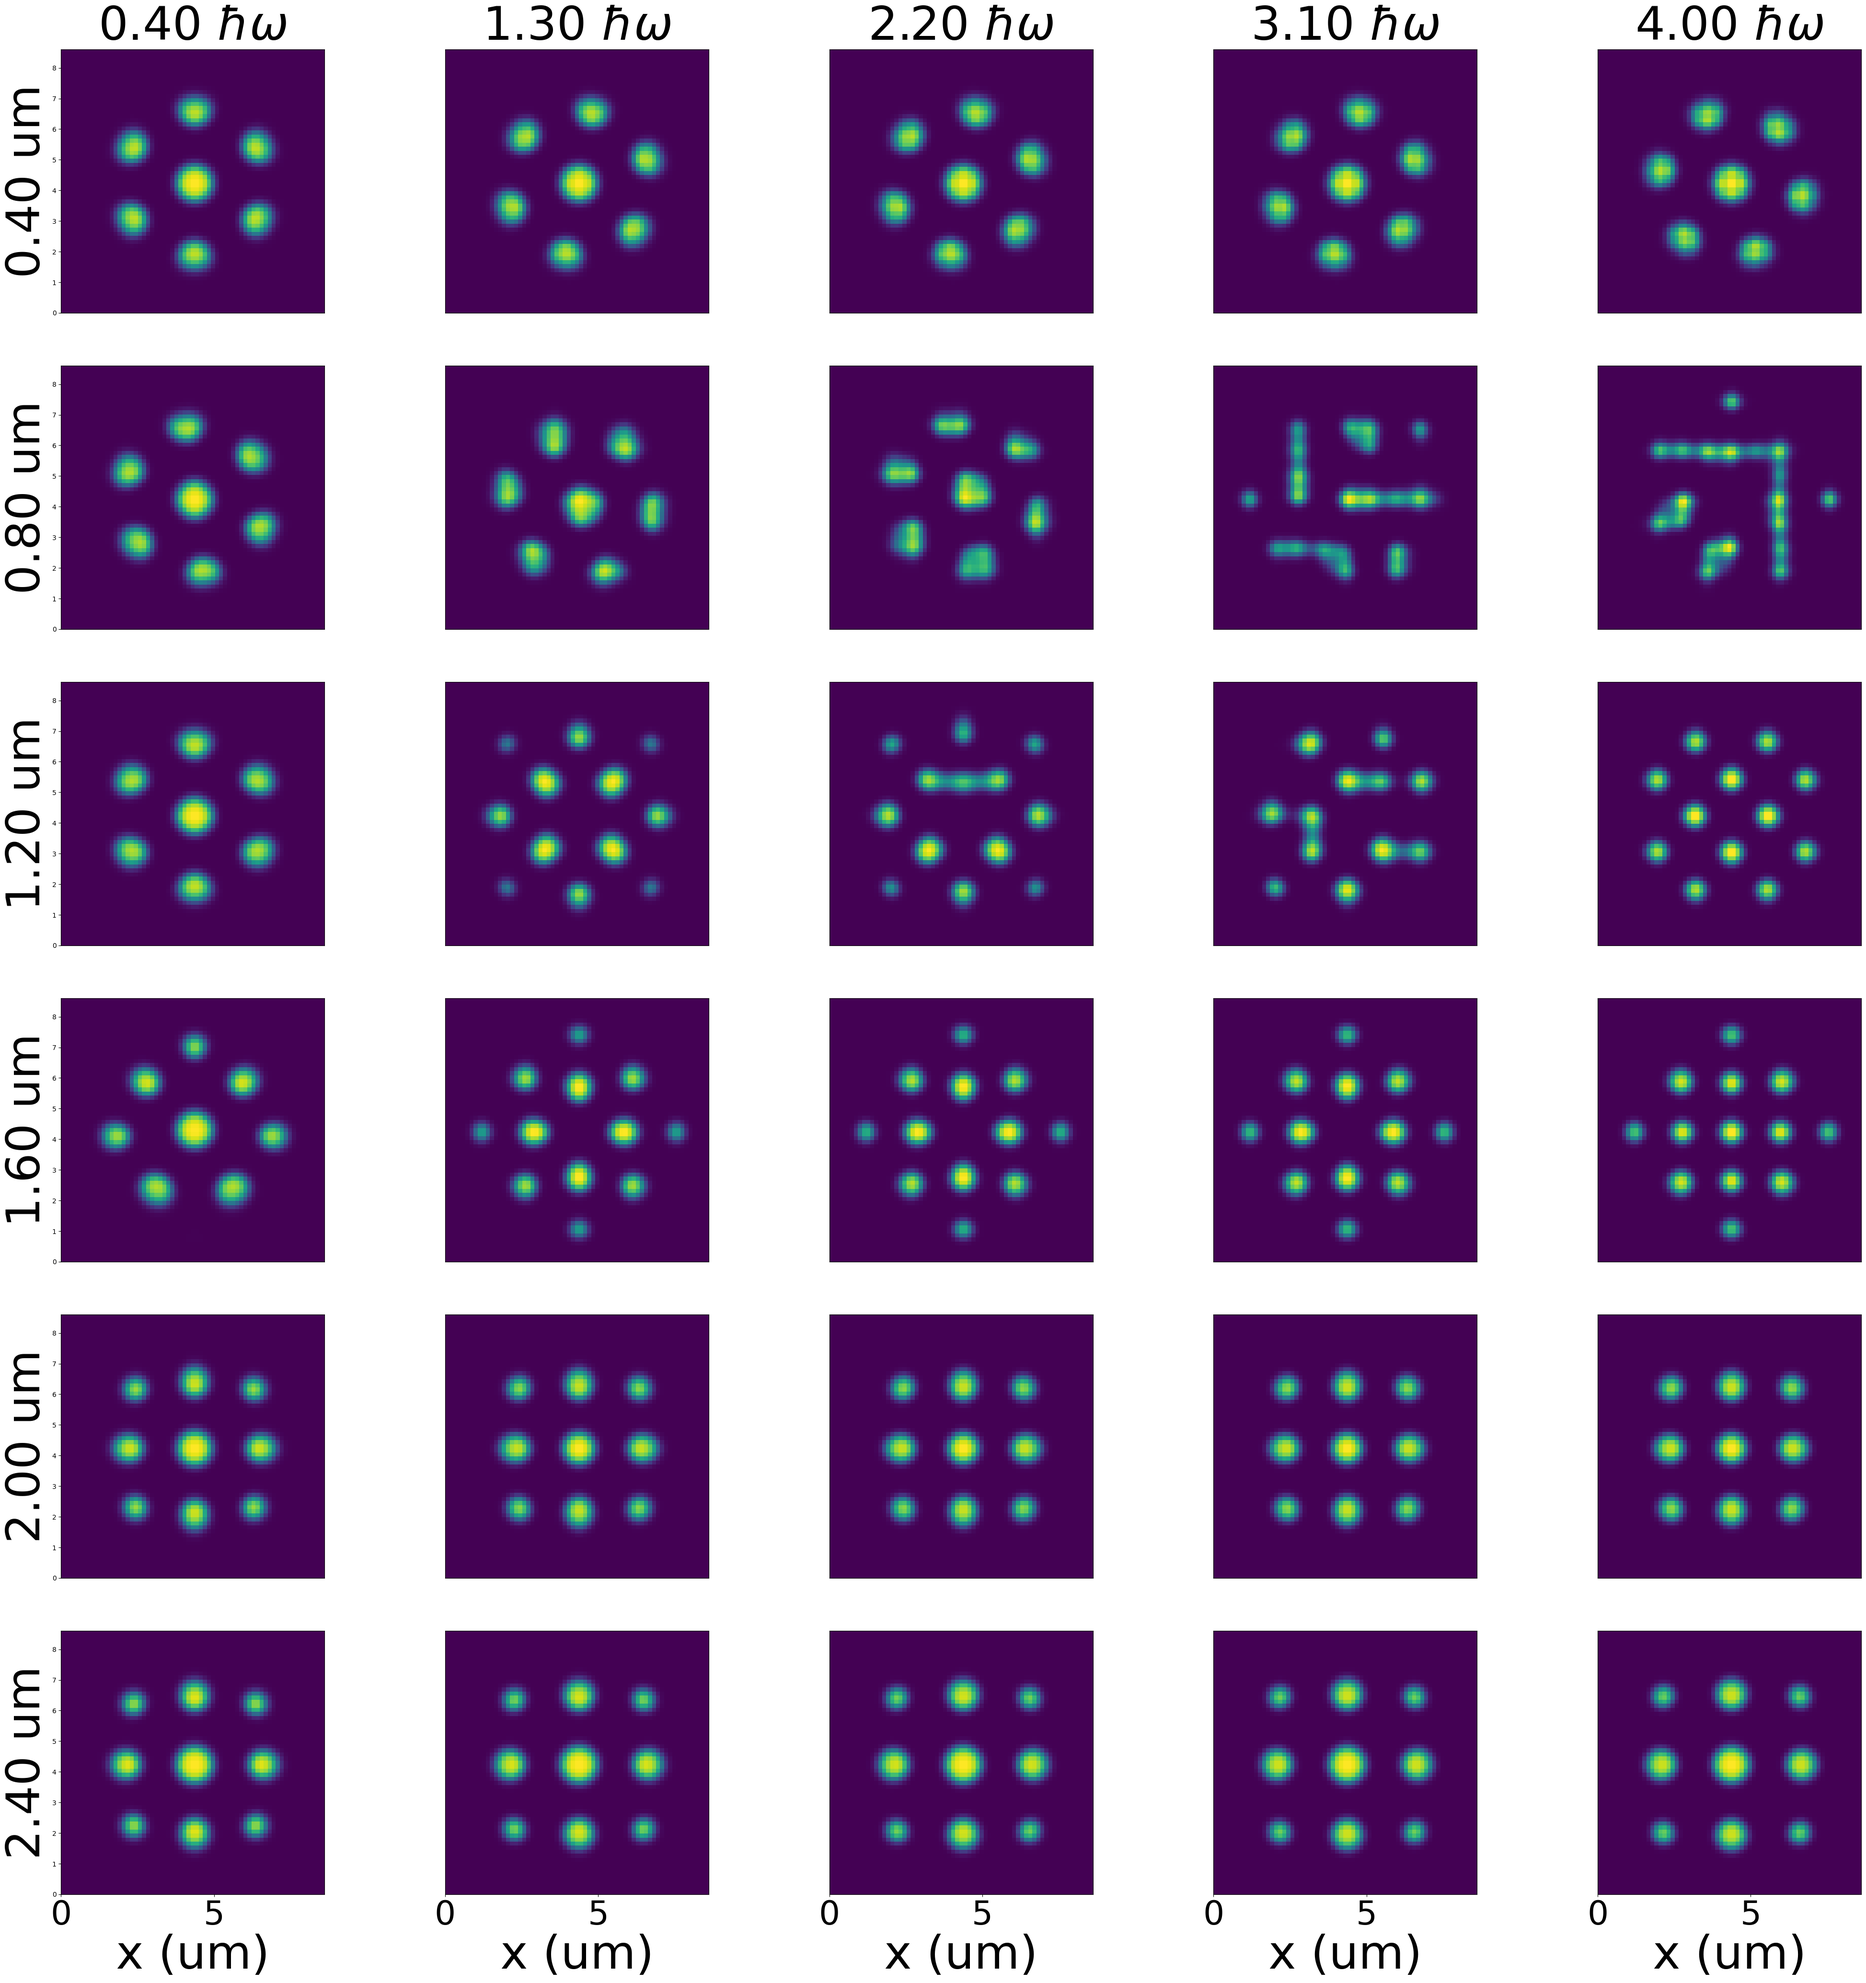
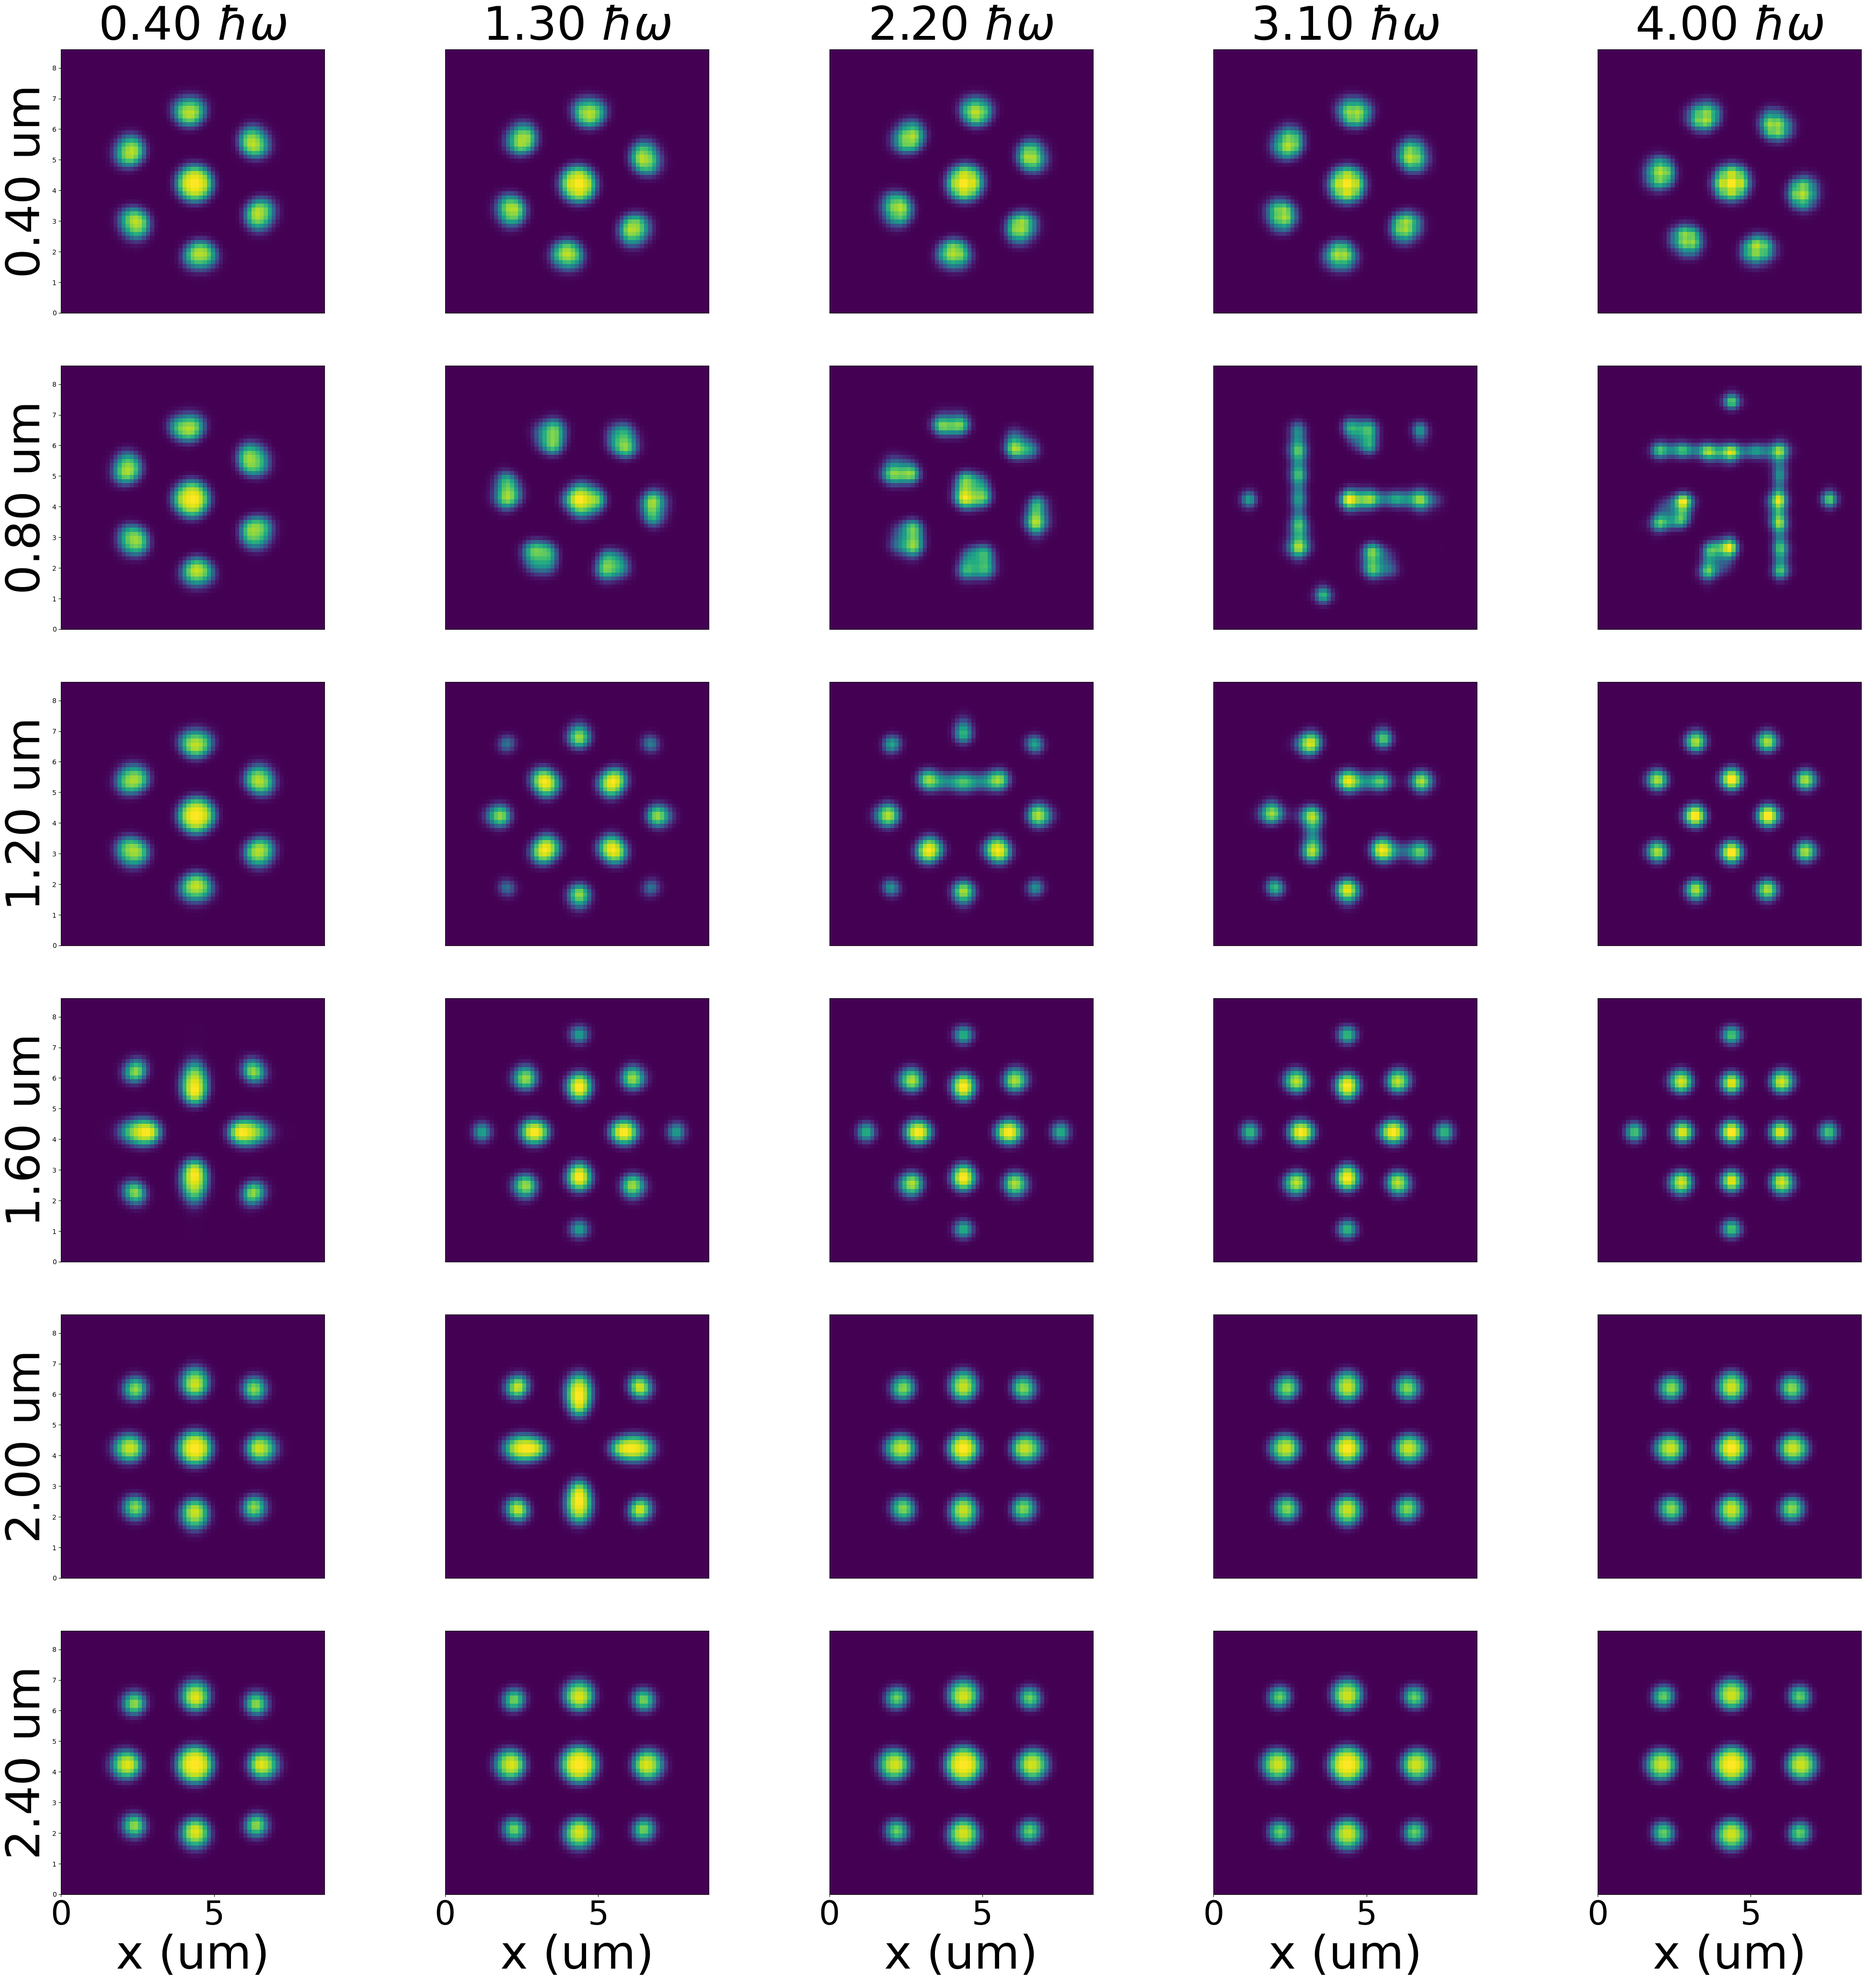
fix minor defects

diff --git a/run.py b/run.py
@@ -11,30 +11,65 @@ from perlin_noise import perlin_noise
 from visualize import plot_table
 
 
+def scan(dbec, aho):
+    sigmas = np.array([2, 2, 2]) / np.sqrt(2)
+
+    num_spacings = 6
+    num_depths = 5
+    lattice_spacings = np.linspace(0.4, 2.4, num_spacings) * 1e-6 / aho  # convert [1e-6 m] -> [aho]
+    lattice_depths = np.linspace(0.4, 4.0, num_depths)  # [hbar omega]
+    nx = dbec.grid.nx
+    nz = dbec.grid.nz
+
+    wavefunctions = np.empty((num_spacings, num_depths) + (nx, nx, nz))
+    energies = np.empty((num_spacings, num_depths))
+    for lattice_type in ["square", "triangular"]:
+        for i, lat_spacing in enumerate(lattice_spacings):
+            for j, lat_depth in enumerate(lattice_depths):
+                logging.info(
+                    f"{lattice_type} [{i},{j}]: depth {lat_depth:1.2f} "
+                    f"spacings {lat_spacing:1.2f}",
+                )
+                if lat_depth == 0 and j > 0:
+                    wavefunctions[i, j, :, :, :] = wavefunctions[0, 0, :, :, :]
+                else:
+                    dbec.potential.lattice_depth = lat_depth
+                    dbec.potential.lattice_constant = lat_spacing
+                    dbec.potential.lattice_type = lattice_type
+                    noise = perlin_noise(
+                        nx, nx, nz, scale=8
+                    )  # make sure nx,nz are divisable by scale
+                    psi1 = dipolar.gaussian_psi(dbec.grid, sigmas) * (1 + 0.2 * noise)
+                    energy, psi_opt = dbec.optimize(psi1)
+                    # plot_contour(grid.x1, grid.y1, abs(psi_opt[:, :, mid]))
+                    energies[i, j] = energy
+                    wavefunctions[i, j, :, :, :] = psi_opt
+        results = {"wavefunctions": wavefunctions, "energies": energies}
+        pickle.dump(results, open("results/results.pkl", "wb"))
+        plot_table(wavefunctions, lattice_spacings, lattice_depths, aho, lattice_type, limx)
+
+
 def main():
+    torch.manual_seed(1)
     logging.basicConfig(
         level=logging.INFO,
         format="%(asctime)s [%(levelname)s] %(message)s",
         handlers=[logging.FileHandler("logs/log.log"), logging.StreamHandler()],
         datefmt="%Y-%m-%d %H:%M:%S",
     )
-
     os.makedirs("figs", exist_ok=True)
     os.makedirs("results", exist_ok=True)
     os.makedirs("logs", exist_ok=True)
-
     mass = 162 * constants.dalton  # 162Dy mass in kg
     omega_x = 2 * np.pi * 125  # Trap radial frequency, in rad/s
     aho = np.sqrt(constants.hbar / mass / omega_x)  # oscillator length in meters
     omegas = np.array([1, 1, 2])  # trap frequencies in units of omega_x
-
     num_atoms = 100 * 1e3  # Number of atoms
-    scattering_length = 85 * constants.a0
-    dipole_length = 131 * constants.a0
-
+    scattering_length = 5 * constants.a0  # 85
+    dipole_length = 0  # 131 * constants.a0
     lattice_constant = 1  # in units of aho
     lattice_depth = 0  # in units of hbar*omegar_r
-    lattice_type = "square"
+    lattice_type = None
     potential = dipolar.Potential(
         omegas,
         lattice_constant,
@@ -61,7 +96,9 @@ def main():
     # gpotential = potential_func.lattice(grid.x, grid.y)
     # plot_contour(grid.x1, grid.y1, gpotential)
 
-    precision = "float64"  # change that to get x5 speed on newer nvidia GPUs,
+    precision = "float32"
+    # "float64"for full precision
+    # "float32" to get x5 speed on newer nvidia GPUs,
     # at slight cost of precision (relative energy error ~1e-6)
 
     dbec = dipolar.DBEC(
@@ -73,38 +110,12 @@ def main():
         Bcutoff,
         precision=precision,
     )
+    # scan(dbec, aho)
     sigmas = np.array([2, 2, 2]) / np.sqrt(2)
-    torch.manual_seed(1)
-    num_spacings = 6
-    num_depths = 5
-    lattice_spacings = np.linspace(0.4, 2.4, num_spacings) * 1e-6 / aho  # convert [1e-6 m] -> [aho]
-    lattice_depths = np.linspace(0.4, 4.0, num_depths)  # [hbar omega]
-    wavefunctions = np.empty((num_spacings, num_depths) + (nx, nx, nz))
-    energies = np.empty((num_spacings, num_depths))
-    for lattice_type in ["square", "triangular"]:
-        for i, lat_spacing in enumerate(lattice_spacings):
-            for j, lat_depth in enumerate(lattice_depths):
-                logging.info(
-                    f"{lattice_type} [{i},{j}]: depth {lat_depth:1.2f} "
-                    f"spacings {lat_spacing:1.2f}",
-                )
-                if lat_depth == 0 and j > 0:
-                    wavefunctions[i, j, :, :, :] = wavefunctions[0, 0, :, :, :]
-                else:
-                    potential.lattice_depth = lat_depth
-                    potential.lattice_constant = lat_spacing
-                    potential.lattice_type = lattice_type
-                    noise = perlin_noise(
-                        nx, nx, nz, scale=8
-                    )  # make sure nx,nz are divisable by scale
-                    psi1 = dipolar.gaussian_psi(grid, sigmas) * (1 + 0.2 * noise)
-                    energy, psi_opt = dbec.optimize(psi1)
-                    # plot_contour(grid.x1, grid.y1, abs(psi_opt[:, :, mid]))
-                    energies[i, j] = energy
-                    wavefunctions[i, j, :, :, :] = psi_opt
-        results = {"wavefunctions": wavefunctions, "energies": energies}
-        pickle.dump(results, open("results/results.pkl", "wb"))
-        plot_table(wavefunctions, lattice_spacings, lattice_depths, aho, lattice_type, limx)
+    noise = perlin_noise(nx, nx, nz, scale=8)  # make sure nx,nz are divisable by scale
+    psi1 = dipolar.gaussian_psi(dbec.grid, sigmas) * (1 + 0.2 * noise)
+    energy, psi_opt = dbec.optimize(psi1)
+    print(energy)
 
 
 if __name__ == "__main__":

diff --git a/dipolar.py b/dipolar.py
@@ -136,8 +136,10 @@ class DBEC:
         else:
             self.edd = self.dipole_length / self.scattering_length
         self.potential = potential
-        self.potential_grid = None  # update in optimize
         self.grid = grid
+        self.potential_grid = torch.as_tensor(
+            self.potential(self.grid.x, self.grid.y, self.grid.z), dtype=self.precision
+        )  # also update in optimize if potential changed
         self.Bcutoff = Bcutoff
         self.k2, self.vdk = self._make_kspace_operators()
         self.glhy = (
@@ -161,12 +163,13 @@ class DBEC:
         vdk *= spherical_cut
         vdk[0, 0, 0] = 0
 
-        if k2.shape[0] // 2 == 0:  # for even size need double weight for highest positive frequency
-            k2[k2.shape[0] // 2, :, :] *= 2
-        if k2.shape[1] // 2 == 0:
-            k2[:, k2.shape[1] // 2, :] *= 2
-        if k2.shape[2] // 2 == 0:
-            k2[:, :, k2.shape[2] // 2] *= 2
+        # Disable this weighting for now, it breaks Parseval's theorem (unitarity of fourier transform):
+        # if k2.shape[0] // 2 == 0:  # for even size need double weight for highest positive frequency
+        #    k2[k2.shape[0] // 2, :, :] *= 2
+        # if k2.shape[1] // 2 == 0:
+        #    k2[:, k2.shape[1] // 2, :] *= 2
+        # if k2.shape[2] // 2 == 0:
+        #    k2[:, :, k2.shape[2] // 2] *= 2
 
         return (
             torch.as_tensor(k2, dtype=self.precision),

diff --git a/test_dipolar.py b/test_dipolar.py
@@ -35,7 +35,7 @@ def analytic_energies(dbec, sigmas):
     """
 
     kinetic_energy = 1 / 8 * np.sum((1 / sigmas) ** 2)
-    potential_energy = 1 / 2 * np.sum((sigmas) ** 2 * dbec.omegas**2)
+    potential_energy = 1 / 2 * np.sum((sigmas) ** 2 * dbec.potential.omegas**2)
     scattering_energy = (
         dbec.num_atoms * dbec.scattering_length / (4 * np.sqrt(np.pi) * np.prod(sigmas))
     )
@@ -172,7 +172,7 @@ def test_energy():
         ) = analytic_energies(dbec, sigmas)
 
         # print("ED", dipolar_energy, analytic_dipolar_energy)
-        err = 1e-5
+        err = 1e-6
         assert abs(kinetic_energy / analytic_kinetic_energy - 1) < err
         assert abs(potential_energy / analytic_potential_energy - 1) < err
         assert abs(scattering_energy / analytic_scattering_energy - 1) < err
